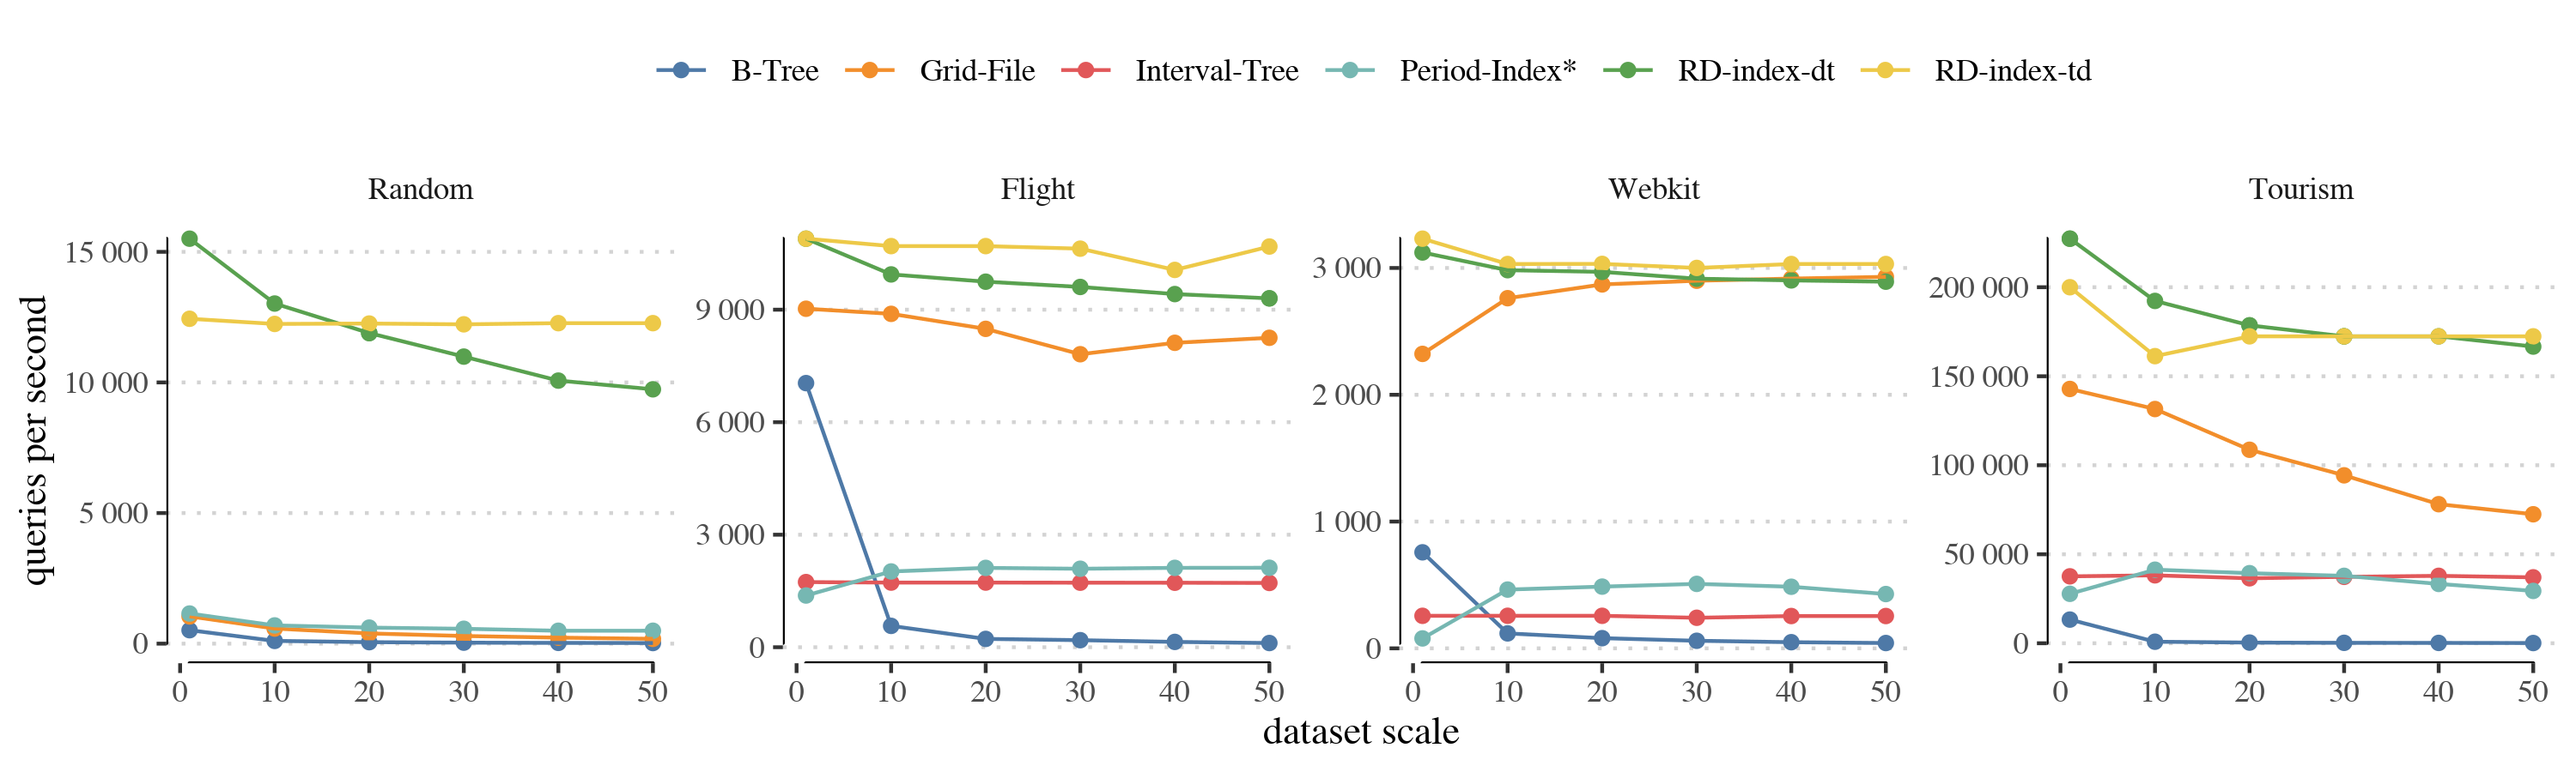
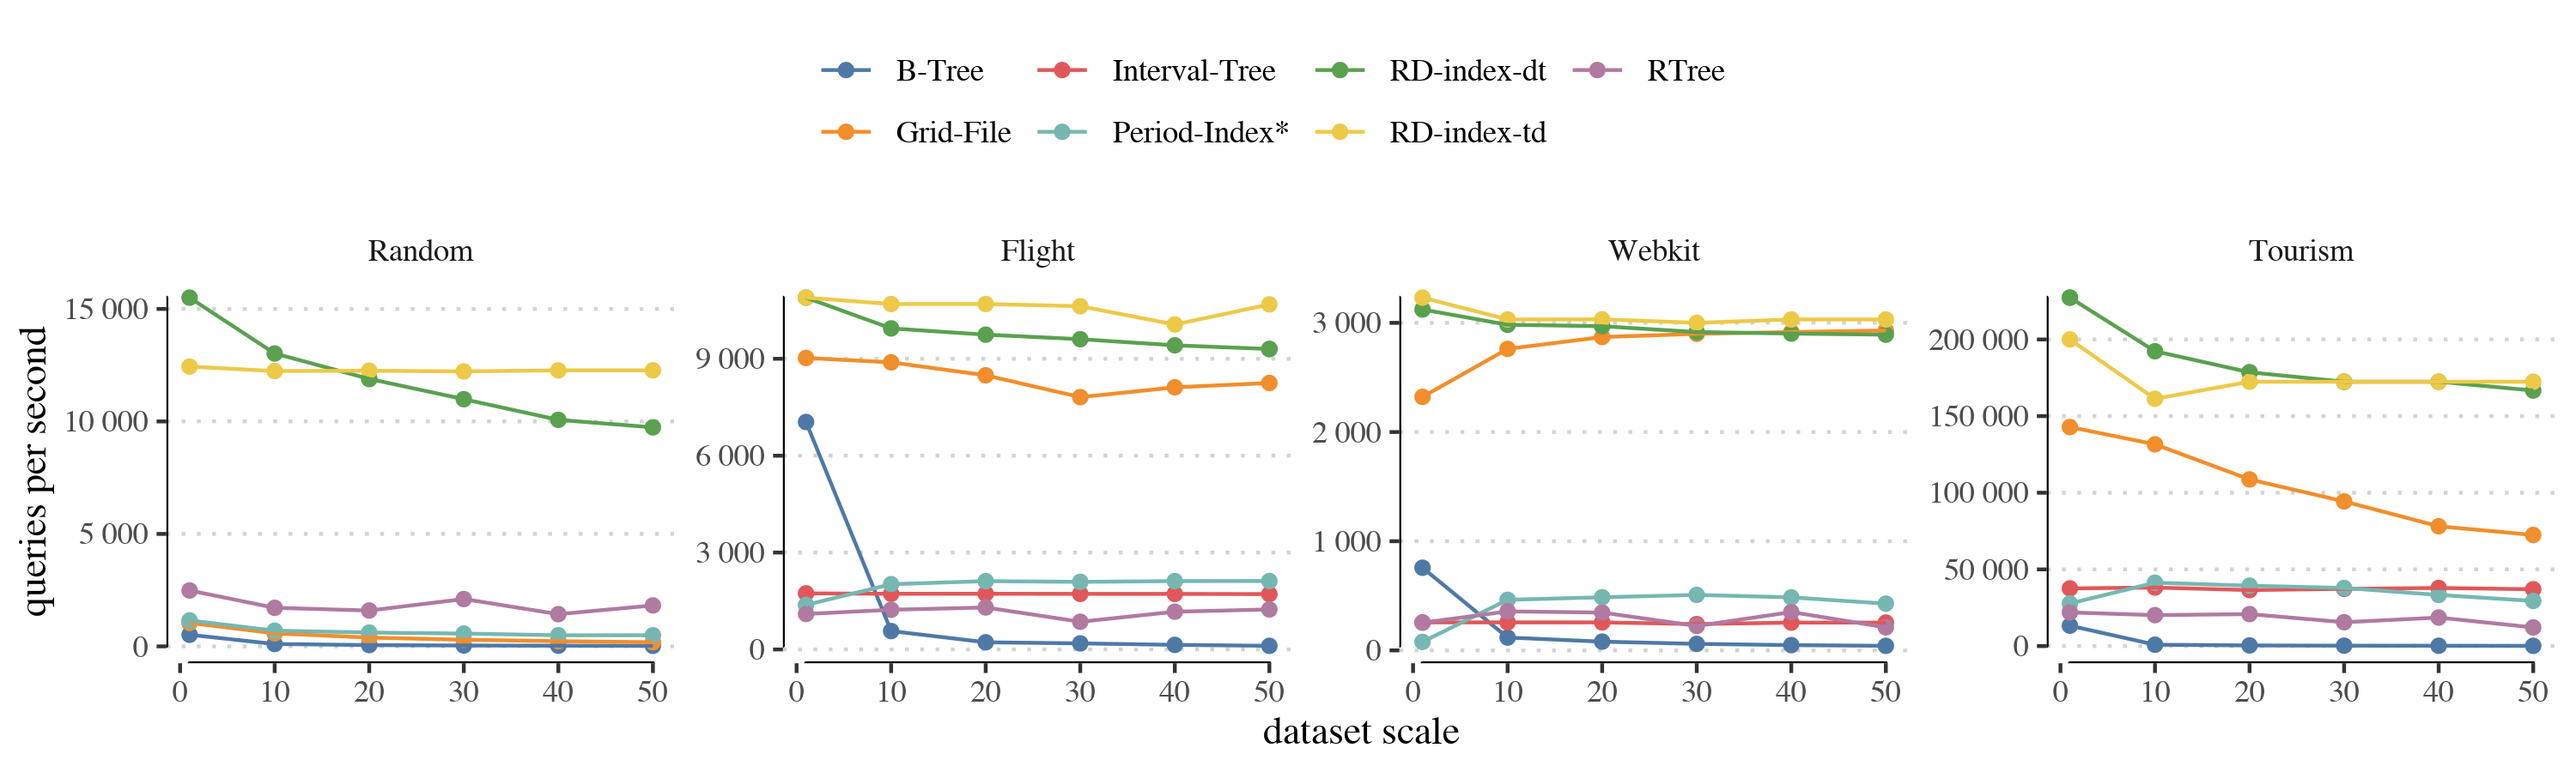
Include RTree in the experimental comparison

diff --git a/paper/qps.tex b/paper/qps.tex
@@ -1,46 +1,46 @@
 
-\begin{tabular}[t]{lllrrrrrr}
+\begin{tabular}[t]{lllrrrrrrl}
 \toprule
-\multicolumn{1}{c}{ } & \multicolumn{2}{c}{Query distribution} & \multicolumn{6}{c}{Queries per second (index build time)} \\
-\cmidrule(l{3pt}r{3pt}){2-3} \cmidrule(l{3pt}r{3pt}){4-9}
-dataset & time & duration & \rdtd & \rddt & \gfile & \btree & \pindex & \itree\\
+\multicolumn{1}{c}{ } & \multicolumn{2}{c}{Query distribution} & \multicolumn{7}{c}{Queries per second (index build time)} \\
+\cmidrule(l{3pt}r{3pt}){2-3} \cmidrule(l{3pt}r{3pt}){4-10}
+dataset & time & duration & \rdtd & \rddt & \gfile & \btree & \pindex & \itree & \rtree\\
 \midrule
- & Uniform & Uniform & 14\,793 {\footnotesize(1\,060)} & \textbf{16\,835} {\footnotesize(\textbf{789})} & 1\,525 {\footnotesize(1\,196)} & 495 {\footnotesize(2\,574)} & 1\,508 {\footnotesize(6\,074)} & 256 {\footnotesize(3\,415)}\\
+ & Uniform & Uniform & 14\,793 {\footnotesize(1\,060)} & \textbf{16\,835} {\footnotesize(\textbf{789})} & 1\,525 {\footnotesize(1\,196)} & 495 {\footnotesize(2\,574)} & 1\,508 {\footnotesize(6\,074)} & 256 {\footnotesize(3\,415)} & 2\,641 {\footnotesize(3\,451)}\\
 
- & Uniform & - & 477 {\footnotesize(1\,026)} & \textbf{608} {\footnotesize(891)} & 469 {\footnotesize(\textbf{455})} & 8 {\footnotesize(2\,597)} & 239 {\footnotesize(2\,803)} & 256 {\footnotesize(3\,335)}\\
+ & Uniform & - & 477 {\footnotesize(1\,026)} & \textbf{608} {\footnotesize(891)} & 469 {\footnotesize(\textbf{455})} & 8 {\footnotesize(2\,597)} & 239 {\footnotesize(2\,803)} & 256 {\footnotesize(3\,335)} & 12 {\footnotesize(3\,390)}\\
 
- & Clustered & Uniform & 13\,263 {\footnotesize(1\,028)} & \textbf{13\,966} {\footnotesize(\textbf{783})} & 1\,337 {\footnotesize(847)} & 433 {\footnotesize(2\,626)} & 1\,248 {\footnotesize(6\,172)} & 183 {\footnotesize(3\,624)}\\
+ & Clustered & Uniform & 13\,263 {\footnotesize(1\,028)} & \textbf{13\,966} {\footnotesize(\textbf{783})} & 1\,337 {\footnotesize(847)} & 433 {\footnotesize(2\,626)} & 1\,248 {\footnotesize(6\,172)} & 183 {\footnotesize(3\,624)} & 2\,096 {\footnotesize(3\,372)}\\
 
- & Clustered & - & 465 {\footnotesize(1\,078)} & \textbf{584} {\footnotesize(891)} & 458 {\footnotesize(\textbf{545})} & 8 {\footnotesize(2\,604)} & 215 {\footnotesize(2\,409)} & 216 {\footnotesize(3\,385)}\\
+ & Clustered & - & 465 {\footnotesize(1\,078)} & \textbf{584} {\footnotesize(891)} & 458 {\footnotesize(\textbf{545})} & 8 {\footnotesize(2\,604)} & 215 {\footnotesize(2\,409)} & 216 {\footnotesize(3\,385)} & 18 {\footnotesize(3\,339)}\\
 
-\multirow{-5}{*}{\raggedright\arraybackslash Uniform} & - & Uniform & 838 {\footnotesize(1\,025)} & 730 {\footnotesize(\textbf{776})} & 76 {\footnotesize(854)} & \textbf{43\,103} {\footnotesize(2\,509)} & 67 {\footnotesize(6\,171)} & 13 {\footnotesize(3\,349)}\\
-\cmidrule{1-9}
- & Uniform & Uniform & 17\,483 {\footnotesize(1\,009)} & \textbf{19\,608} {\footnotesize(798)} & 1\,929 {\footnotesize(\textbf{700})} & 574 {\footnotesize(2\,578)} & 1\,780 {\footnotesize(4\,498)} & 351 {\footnotesize(3\,393)}\\
+\multirow{-5}{*}{\raggedright\arraybackslash Uniform} & - & Uniform & 838 {\footnotesize(1\,025)} & 730 {\footnotesize(\textbf{776})} & 76 {\footnotesize(854)} & \textbf{43\,103} {\footnotesize(2\,509)} & 67 {\footnotesize(6\,171)} & 13 {\footnotesize(3\,349)} & 108 {\footnotesize(3\,337)}\\
+\cmidrule{1-10}
+ & Uniform & Uniform & 17\,483 {\footnotesize(1\,009)} & \textbf{19\,608} {\footnotesize(798)} & 1\,929 {\footnotesize(\textbf{700})} & 574 {\footnotesize(2\,578)} & 1\,780 {\footnotesize(4\,498)} & 351 {\footnotesize(3\,393)} & 3\,143 {\footnotesize(3\,415)}\\
 
- & Uniform & - & 486 {\footnotesize(1\,012)} & \textbf{613} {\footnotesize(905)} & 482 {\footnotesize(\textbf{406})} & 9 {\footnotesize(2\,576)} & 218 {\footnotesize(2\,657)} & 358 {\footnotesize(3\,307)}\\
+ & Uniform & - & 486 {\footnotesize(1\,012)} & \textbf{613} {\footnotesize(905)} & 482 {\footnotesize(\textbf{406})} & 9 {\footnotesize(2\,576)} & 218 {\footnotesize(2\,657)} & 358 {\footnotesize(3\,307)} & 10 {\footnotesize(3\,350)}\\
 
- & Clustered & Uniform & 13\,736 {\footnotesize(1\,009)} & \textbf{15\,244} {\footnotesize(800)} & 1\,415 {\footnotesize(\textbf{709})} & 461 {\footnotesize(2\,568)} & 1\,379 {\footnotesize(4\,542)} & 225 {\footnotesize(3\,186)}\\
+ & Clustered & Uniform & 13\,736 {\footnotesize(1\,009)} & \textbf{15\,244} {\footnotesize(800)} & 1\,415 {\footnotesize(\textbf{709})} & 461 {\footnotesize(2\,568)} & 1\,379 {\footnotesize(4\,542)} & 225 {\footnotesize(3\,186)} & 2\,269 {\footnotesize(3\,364)}\\
 
- & Clustered & - & 362 {\footnotesize(1\,108)} & \textbf{480} {\footnotesize(903)} & 368 {\footnotesize(\textbf{410})} & 8 {\footnotesize(2\,511)} & 173 {\footnotesize(2\,658)} & 274 {\footnotesize(3\,161)}\\
+ & Clustered & - & 362 {\footnotesize(1\,108)} & \textbf{480} {\footnotesize(903)} & 368 {\footnotesize(\textbf{410})} & 8 {\footnotesize(2\,511)} & 173 {\footnotesize(2\,658)} & 274 {\footnotesize(3\,161)} & 12 {\footnotesize(3\,378)}\\
 
-\multirow{-5}{*}{\raggedright\arraybackslash Clustered} & - & Uniform & 839 {\footnotesize(1\,009)} & 742 {\footnotesize(798)} & 77 {\footnotesize(\textbf{691})} & \textbf{42\,735} {\footnotesize(2\,572)} & 68 {\footnotesize(4\,434)} & 16 {\footnotesize(3\,174)}\\
-\cmidrule{1-9}
- & - & Uniform & 4\,227 {\footnotesize(42)} & 4\,207 {\footnotesize(37)} & 3\,799 {\footnotesize(\textbf{20})} & \textbf{666\,667} {\footnotesize(41)} & 543 {\footnotesize(95)} & 685 {\footnotesize(137)}\\
+\multirow{-5}{*}{\raggedright\arraybackslash Clustered} & - & Uniform & 839 {\footnotesize(1\,009)} & 742 {\footnotesize(798)} & 77 {\footnotesize(\textbf{691})} & \textbf{42\,735} {\footnotesize(2\,572)} & 68 {\footnotesize(4\,434)} & 16 {\footnotesize(3\,174)} & 108 {\footnotesize(3\,347)}\\
+\cmidrule{1-10}
+ & - & Uniform & 4\,227 {\footnotesize(42)} & 4\,207 {\footnotesize(37)} & 3\,799 {\footnotesize(\textbf{20})} & \textbf{666\,667} {\footnotesize(41)} & 543 {\footnotesize(95)} & 685 {\footnotesize(137)} & 379 {\footnotesize(229)}\\
 
- & Uniform & - & 55\,249 {\footnotesize(44)} & \textbf{55\,866} {\footnotesize(46)} & 50\,000 {\footnotesize(\textbf{20})} & 2\,746 {\footnotesize(38)} & 14\,925 {\footnotesize(83)} & 52\,356 {\footnotesize(142)}\\
+ & Uniform & - & 55\,249 {\footnotesize(44)} & \textbf{55\,866} {\footnotesize(46)} & 50\,000 {\footnotesize(\textbf{20})} & 2\,746 {\footnotesize(38)} & 14\,925 {\footnotesize(83)} & 52\,356 {\footnotesize(142)} & 4\,907 {\footnotesize(196)}\\
 
-\multirow{-3}{*}{\raggedright\arraybackslash Flight} & Uniform & Uniform & \textbf{238\,095} {\footnotesize(44)} & 217\,391 {\footnotesize(41)} & 185\,185 {\footnotesize(\textbf{23})} & 13\,986 {\footnotesize(40)} & 30\,769 {\footnotesize(94)} & 43\,478 {\footnotesize(137)}\\
-\cmidrule{1-9}
- & - & Uniform & 2\,545 {\footnotesize(114)} & 2\,525 {\footnotesize(100)} & 1\,941 {\footnotesize(\textbf{53})} & \textbf{3\,451} {\footnotesize(305)} & 70 {\footnotesize(549)} & 160 {\footnotesize(277)}\\
+\multirow{-3}{*}{\raggedright\arraybackslash Flight} & Uniform & Uniform & \textbf{238\,095} {\footnotesize(44)} & 217\,391 {\footnotesize(41)} & 185\,185 {\footnotesize(\textbf{23})} & 13\,986 {\footnotesize(40)} & 30\,769 {\footnotesize(94)} & 43\,478 {\footnotesize(137)} & 22\,173 {\footnotesize(200)}\\
+\cmidrule{1-10}
+ & - & Uniform & 2\,545 {\footnotesize(114)} & 2\,525 {\footnotesize(100)} & 1\,941 {\footnotesize(\textbf{53})} & \textbf{3\,451} {\footnotesize(305)} & 70 {\footnotesize(549)} & 160 {\footnotesize(277)} & 247 {\footnotesize(451)}\\
 
- & Uniform & - & 415 {\footnotesize(115)} & \textbf{466} {\footnotesize(117)} & 461 {\footnotesize(\textbf{53})} & 47 {\footnotesize(256)} & 83 {\footnotesize(543)} & 386 {\footnotesize(276)}\\
+ & Uniform & - & 415 {\footnotesize(115)} & \textbf{466} {\footnotesize(117)} & 461 {\footnotesize(\textbf{53})} & 47 {\footnotesize(256)} & 83 {\footnotesize(543)} & 386 {\footnotesize(276)} & 30 {\footnotesize(481)}\\
 
-\multirow{-3}{*}{\raggedright\arraybackslash Webkit} & Uniform & Uniform & \textbf{3\,185} {\footnotesize(114)} & 3\,110 {\footnotesize(100)} & 2\,339 {\footnotesize(\textbf{53})} & 755 {\footnotesize(261)} & 79 {\footnotesize(641)} & 258 {\footnotesize(277)}\\
-\cmidrule{1-9}
- & - & Uniform & 6\,173 {\footnotesize(32)} & 6\,266 {\footnotesize(\textbf{27})} & 5\,171 {\footnotesize(39)} & \textbf{5\,000\,000} {\footnotesize(37)} & 758 {\footnotesize(134)} & 631 {\footnotesize(134)}\\
+\multirow{-3}{*}{\raggedright\arraybackslash Webkit} & Uniform & Uniform & \textbf{3\,185} {\footnotesize(114)} & 3\,110 {\footnotesize(100)} & 2\,339 {\footnotesize(\textbf{53})} & 755 {\footnotesize(261)} & 79 {\footnotesize(641)} & 258 {\footnotesize(277)} & 260 {\footnotesize(465)}\\
+\cmidrule{1-10}
+ & - & Uniform & 6\,173 {\footnotesize(32)} & 6\,266 {\footnotesize(\textbf{27})} & 5\,171 {\footnotesize(39)} & \textbf{5\,000\,000} {\footnotesize(37)} & 758 {\footnotesize(134)} & 631 {\footnotesize(134)} & 728 {\footnotesize(184)}\\
 
- & Uniform & - & 26\,178 {\footnotesize(27)} & \textbf{28\,249} {\footnotesize(29)} & 16\,340 {\footnotesize(\textbf{25})} & 1\,347 {\footnotesize(31)} & 6\,460 {\footnotesize(153)} & 28\,090 {\footnotesize(134)}\\
+ & Uniform & - & 26\,178 {\footnotesize(27)} & \textbf{28\,249} {\footnotesize(29)} & 16\,340 {\footnotesize(\textbf{25})} & 1\,347 {\footnotesize(31)} & 6\,460 {\footnotesize(153)} & 28\,090 {\footnotesize(134)} & 388 {\footnotesize(184)}\\
 
-\multirow{-3}{*}{\raggedright\arraybackslash Tourism} & Uniform & Uniform & 208\,333 {\footnotesize(30)} & \textbf{238\,095} {\footnotesize(\textbf{26})} & 161\,290 {\footnotesize(39)} & 13\,405 {\footnotesize(32)} & 27\,933 {\footnotesize(135)} & 33\,333 {\footnotesize(154)}\\
+\multirow{-3}{*}{\raggedright\arraybackslash Tourism} & Uniform & Uniform & 208\,333 {\footnotesize(30)} & \textbf{238\,095} {\footnotesize(\textbf{26})} & 161\,290 {\footnotesize(39)} & 13\,405 {\footnotesize(32)} & 27\,933 {\footnotesize(135)} & 33\,333 {\footnotesize(154)} & 22\,026 {\footnotesize(184)}\\
 \bottomrule
 \end{tabular}

diff --git a/paper/temporal-index.tex b/paper/temporal-index.tex
@@ -84,6 +84,7 @@
 
 % Index structures ----------------------------
 \newcommand{\btree}{\algo{B-Tree}\xspace}
+\newcommand{\rtree}{\algo{R-Tree}\xspace}
 \newcommand{\itree}{\algo{Interval-Tree}\xspace}
 \newcommand{\gfile}{\algo{Grid-File}\xspace}
 \newcommand{\pindex}{\algo{Period-Index$\star$}\xspace}
@@ -1165,7 +1166,7 @@ In both cases, interval durations follow a Zipf distribution with $\beta=1$.
 		The smaller number in parentheses report the time to build the index, in milliseconds.
 		\label{tbl:overview-qps}}
   {
-    %\small
+    \small
     \input{qps.tex}
   }
 \end{table*}
